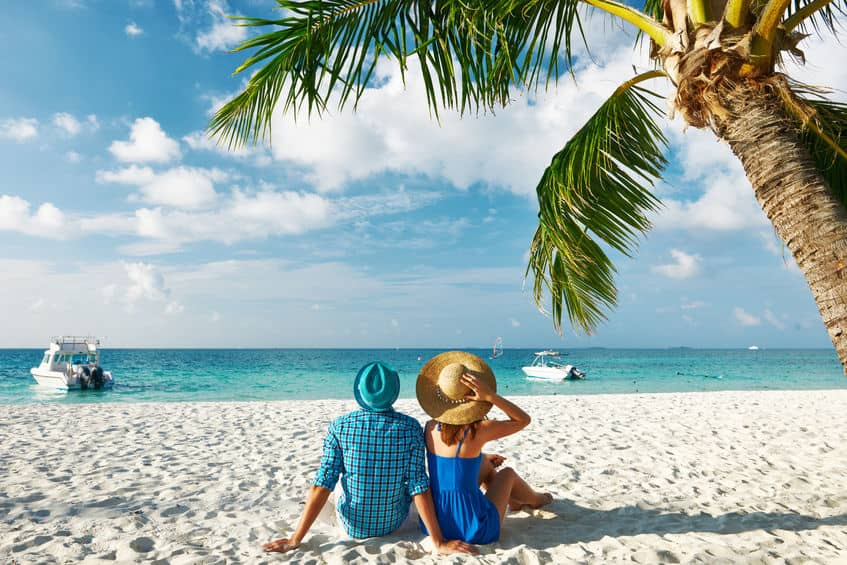
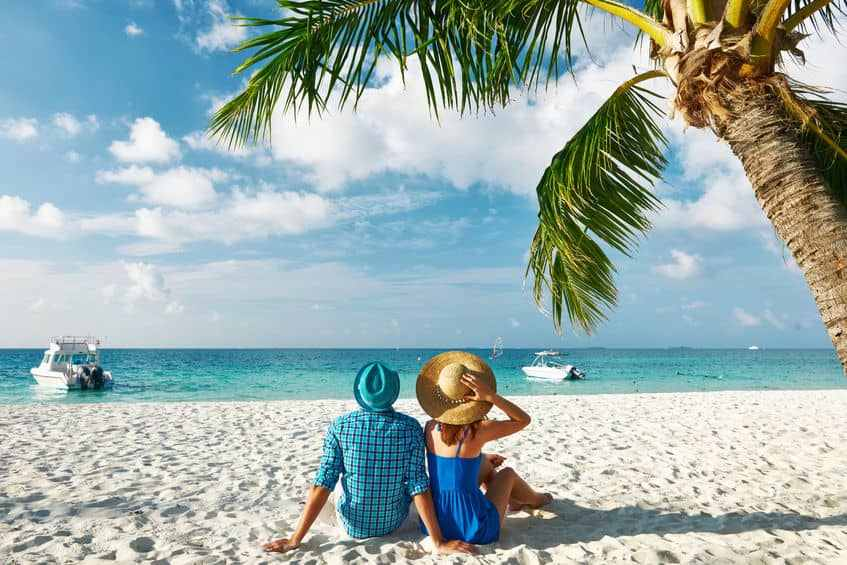
add meta tags & optimize images

diff --git a/src/pages/dominica-passport/index.js b/src/pages/dominica-passport/index.js
@@ -11,11 +11,27 @@ const DominicaPassportPage = () => {
     <main className='overflow-x-hidden'>
       <Head>
         <title>CMC | Dominica Passport</title>
+        <meta
+          property='og:title'
+          content='cmc - dominica passport'
+          key='caribbean management consultancies - dominica passport page'
+        />
+        <meta
+          property='og:description'
+          content="cmc dominica passport page - every thing you should know about dominica's passport"
+          key='ogdesc'
+        />
+        <meta property='og:image' content='/images/logo-tr.png' key='ogimage' />
+        <meta
+          property='og:site_name'
+          content='caribbean management consultancies - dominica passport page full information'
+          key='ogsitename'
+        />
+        <meta property='og:url' content='https://your-site-name/' key='ogurl' />
+        <meta property='og:type' content='profile' key='ogtype' />
       </Head>
       {/* banner  */}
-      <DomPassImage
-        title='Commonwealth of Dominica Information & Citizenship Benefits'
-      />
+      <DomPassImage title='Commonwealth of Dominica Information & Citizenship Benefits' />
       {/* to avoid default css styles, use layout here */}
       <Layout>
         <div className='flex items-center'>

diff --git a/src/pages/dominica-passport/ch/index.js b/src/pages/dominica-passport/ch/index.js
@@ -10,6 +10,24 @@ const ChDominicaPassport = () => {
     <main className='overflow-x-hidden'>
       <Head>
         <title>CMC | 多米尼克护照</title>
+        <meta
+          property='og:title'
+          content='cmc - 多米尼克护照'
+          key='caribbean management consultancies - dominica passport page / chinese'
+        />
+        <meta
+          property='og:description'
+          content="cmc 多米尼克护照 page - every thing you should know about dominica's passport / chinese"
+          key='ogdesc'
+        />
+        <meta property='og:image' content='/images/logo-tr.png' key='ogimage' />
+        <meta
+          property='og:site_name'
+          content='caribbean management consultancies - dominica passport page full information in chinese'
+          key='ogsitename'
+        />
+        <meta property='og:url' content='https://your-site-name/' key='ogurl' />
+        <meta property='og:type' content='profile' key='ogtype' />
       </Head>
       <DomPassImage title='多米尼克联邦信息和公民福利' />
       {/* to avoid default css styles, use layout here */}

diff --git a/src/pages/dominica-passport/fa/index.js b/src/pages/dominica-passport/fa/index.js
@@ -11,6 +11,24 @@ const FaDominicaPassport = () => {
     <main className='overflow-x-hidden'>
       <Head>
         <title>CMC | پاسپورت دومنیکا</title>
+        <meta
+          property='og:title'
+          content='cmc - پاسپورت دومنیکا '
+          key='caribbean management consultancies - dominica passport page / farsi'
+        />
+        <meta
+          property='og:description'
+          content="cmc process page - every thing you should know about dominica's passport / farsi"
+          key='ogdesc'
+        />
+        <meta property='og:image' content='/images/logo-tr.png' key='ogimage' />
+        <meta
+          property='og:site_name'
+          content='caribbean management consultancies - dominica passport page full information in farsi'
+          key='ogsitename'
+        />
+        <meta property='og:url' content='https://your-site-name/' key='ogurl' />
+        <meta property='og:type' content='profile' key='ogtype' />
       </Head>
       {/* banner  */}
 

diff --git a/src/pages/contact-us/index.js b/src/pages/contact-us/index.js
@@ -18,6 +18,24 @@ const ContactUsPage = () => {
     <Layout>
       <Head>
         <title>CMC | Contact Us</title>
+        <meta
+          property='og:title'
+          content='cmc - contact us'
+          key='caribbean management consultancies -  contact us'
+        />
+        <meta
+          property='og:description'
+          content='cmc contact us page - how to reach us'
+          key='ogdesc'
+        />
+        <meta property='og:image' content='/images/logo-tr.png' key='ogimage' />
+        <meta
+          property='og:site_name'
+          content='caribbean management consultancies - included our office address, whatsapp number and email plus our form to send us a messaged '
+          key='ogsitename'
+        />
+        <meta property='og:url' content='https://your-site-name/' key='ogurl' />
+        <meta property='og:type' content='profile' key='ogtype' />
       </Head>
       <h1 className='text-center font-bold  capitalize text-xl text-secondaryLightColor'>
         contact us

diff --git a/src/pages/pricing/index.js b/src/pages/pricing/index.js
@@ -7,6 +7,24 @@ const PricingPage = () => {
     <Layout>
       <Head>
         <title>CMC | Pricing</title>
+        <meta
+          property='og:title'
+          content='cmc - pricing'
+          key='caribbean management consultancies - pricing page'
+        />
+        <meta
+          property='og:description'
+          content="cmc pricing page - how much does it costs to get dominica's passport?"
+          key='ogdesc'
+        />
+        <meta property='og:image' content='/images/logo-tr.png' key='ogimage' />
+        <meta
+          property='og:site_name'
+          content='caribbean management consultancies - pricing'
+          key='ogsitename'
+        />
+        <meta property='og:url' content='https://your-site-name/' key='ogurl' />
+        <meta property='og:type' content='profile' key='ogtype' />
       </Head>
       <h3 className='tracking-wider text-xl text-center mb-10 font-bold  text-mainLightColor uppercase'>
         PRICING PLANS AND COSTS{' '}

diff --git a/src/pages/process/index.js b/src/pages/process/index.js
@@ -7,6 +7,24 @@ const ProcessPage = () => {
     <Layout>
       <Head>
         <title>CMC | Process</title>
+        <meta
+          property='og:title'
+          content='cmc - process'
+          key='caribbean management consultancies - process page'
+        />
+        <meta
+          property='og:description'
+          content='cmc process page - get full information about dominica process'
+          key='ogdesc'
+        />
+        <meta property='og:image' content='/images/logo-tr.png' key='ogimage' />
+        <meta
+          property='og:site_name'
+          content='caribbean management consultancies - process'
+          key='ogsitename'
+        />
+        <meta property='og:url' content='https://your-site-name/' key='ogurl' />
+        <meta property='og:type' content='profile' key='ogtype' />
       </Head>
       <h3 className='tracking-wider text-xl text-center mb-10 font-bold  text-mainLightColor uppercase'>
         PROCESS AND ESTIMATED TIMELINE

diff --git a/src/pages/index.js b/src/pages/index.js
@@ -9,6 +9,24 @@ const HomePage = () => {
     <Layout>
       <Head>
         <title>CMC</title>
+        <meta
+          property='og:title'
+          content='cmc'
+          key='caribbean management consultancies'
+        />
+        <meta
+          property='og:description'
+          content='cmc landing page - general information'
+          key='ogdesc'
+        />
+        <meta property='og:image' content='/images/logo-tr.png' key='ogimage' />
+        <meta
+          property='og:site_name'
+          content='caribbean management consultancies'
+          key='ogsitename'
+        />
+        <meta property='og:url' content='https://your-site-name/' key='ogurl' />
+        <meta property='og:type' content='profile' key='ogtype' />
       </Head>
       {/* main header */}
       <HeaderCart />

diff --git a/src/components/shared/DomPassImage.jsx b/src/components/shared/DomPassImage.jsx
@@ -7,7 +7,7 @@ const DomPassImage = ({ title }) => {
       <div className='w-screen relative -z-50'>
         <Image
           className='w-full h-40 lg:h-72 object-cover block m-0 p-0 '
-          src='/images/dp-bg.jpg'
+          src='/images/dom-pass-bg-min.jpg'
           width={900}
           height={900}
           alt='dominica passport page header'
